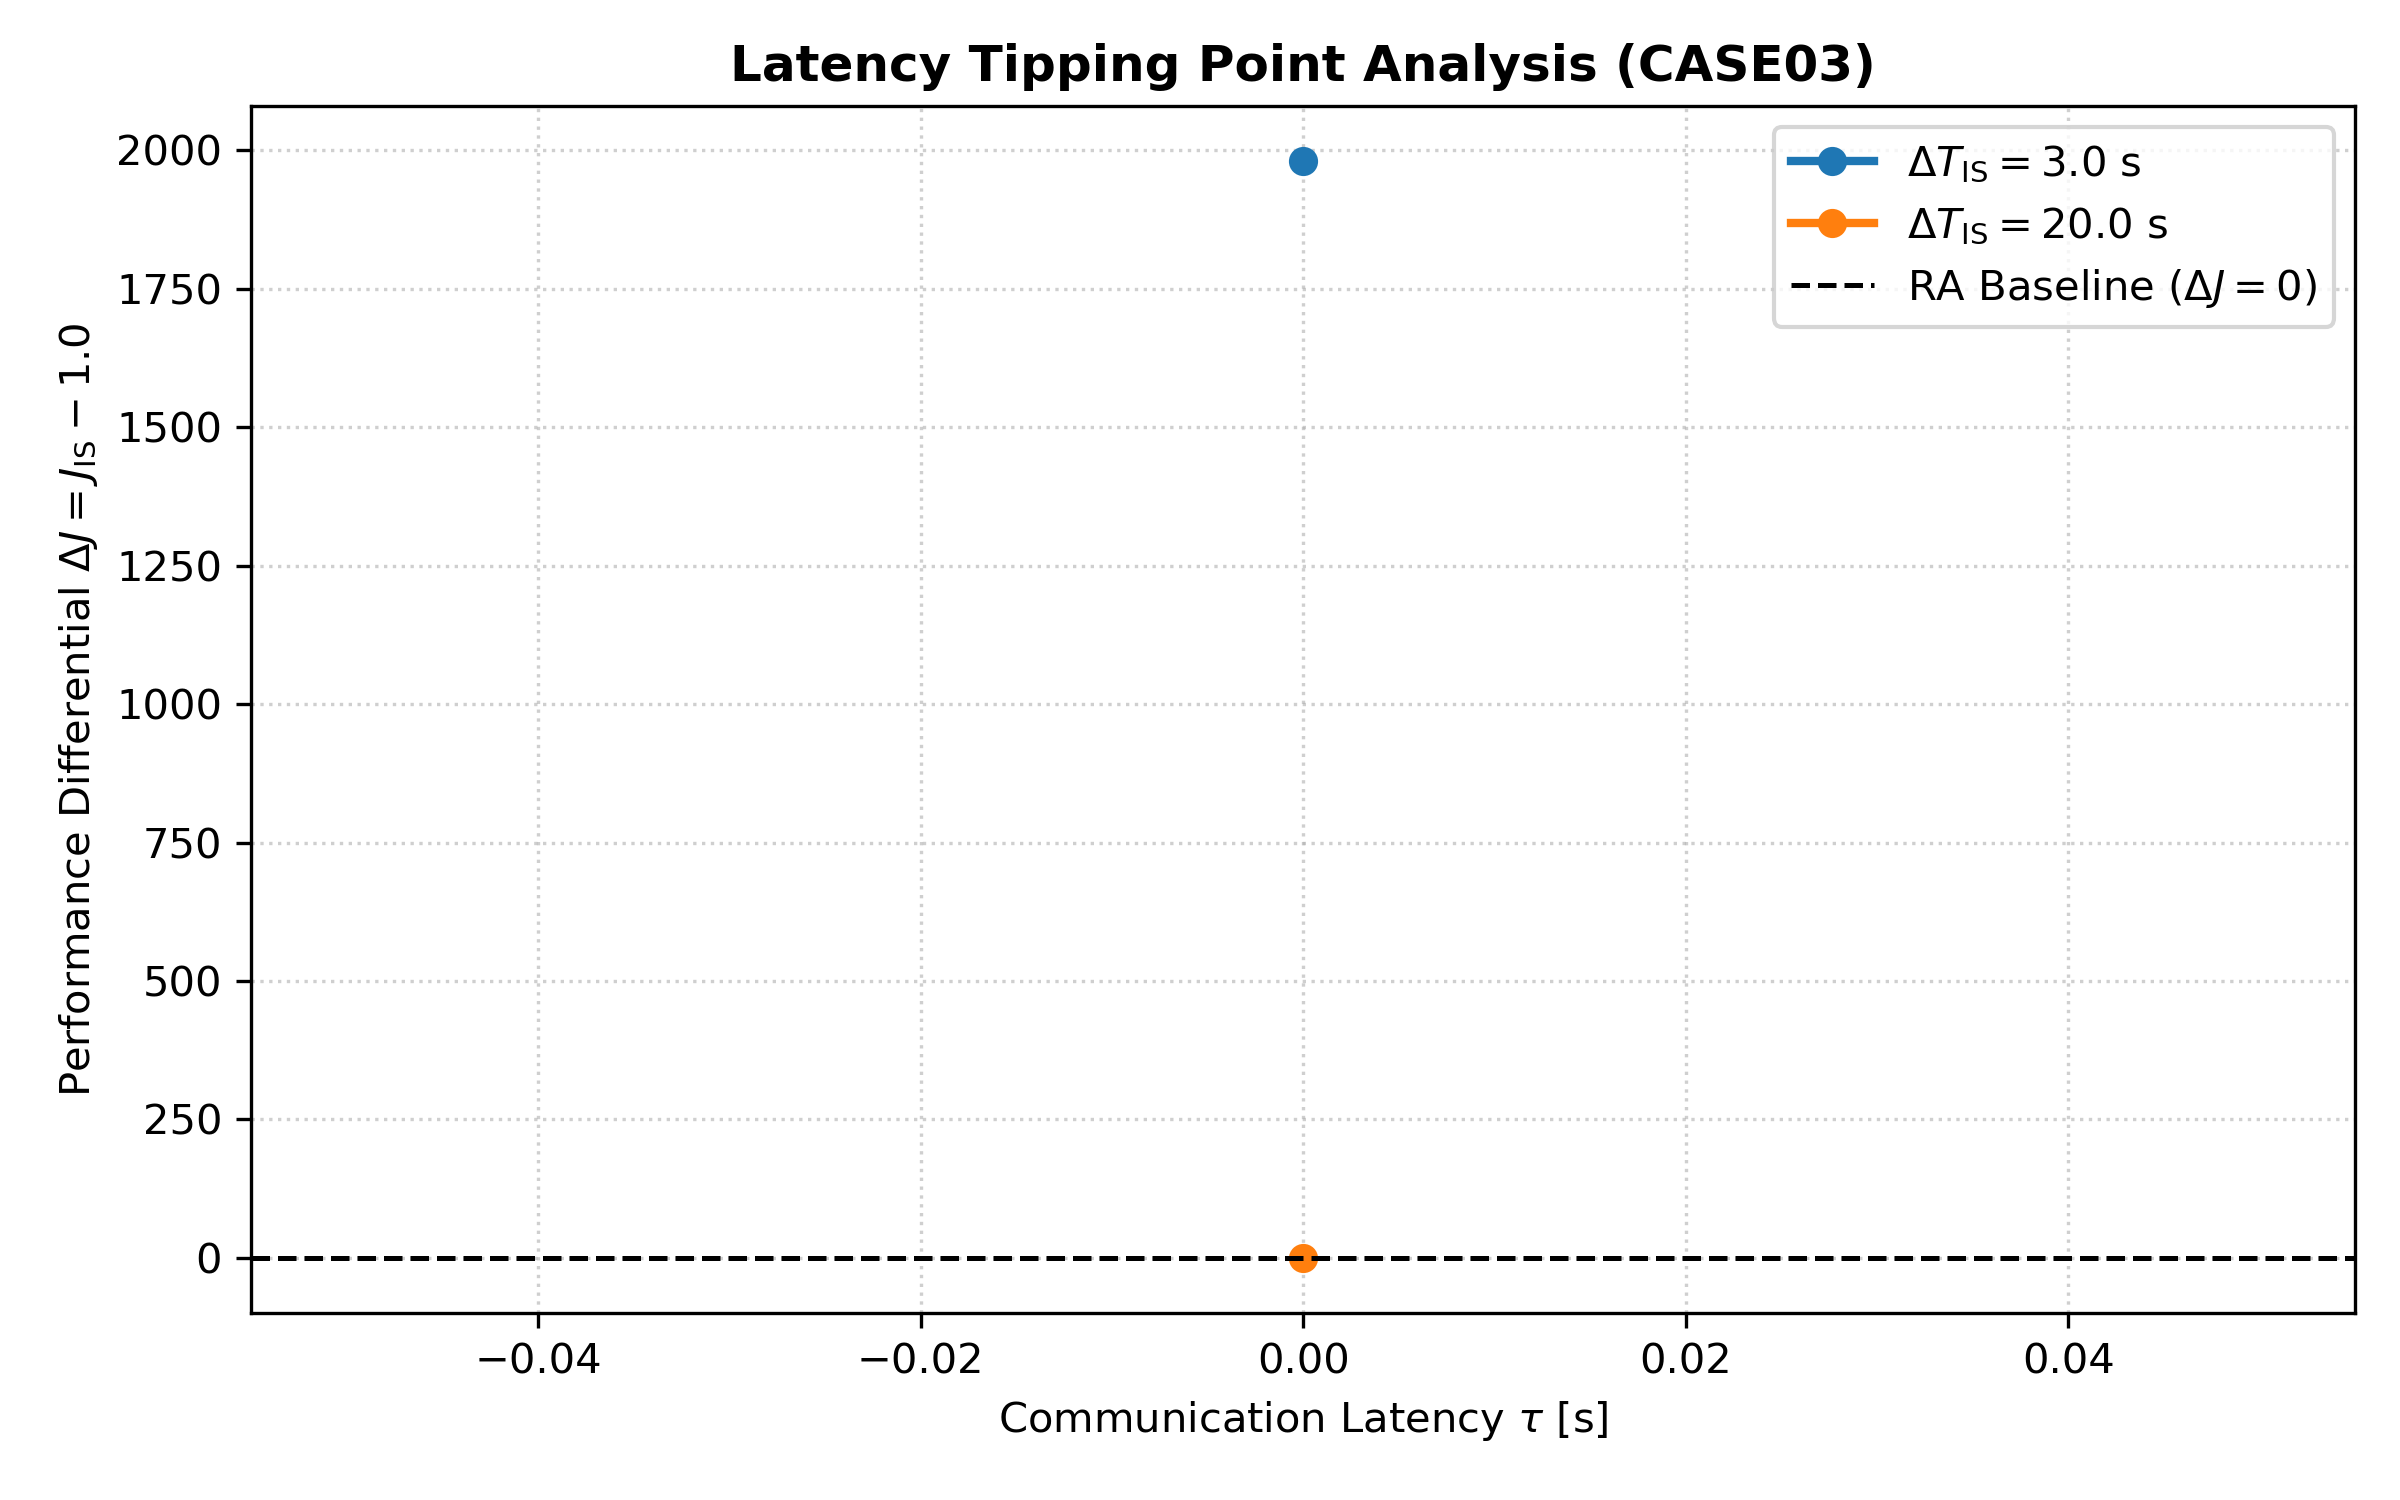
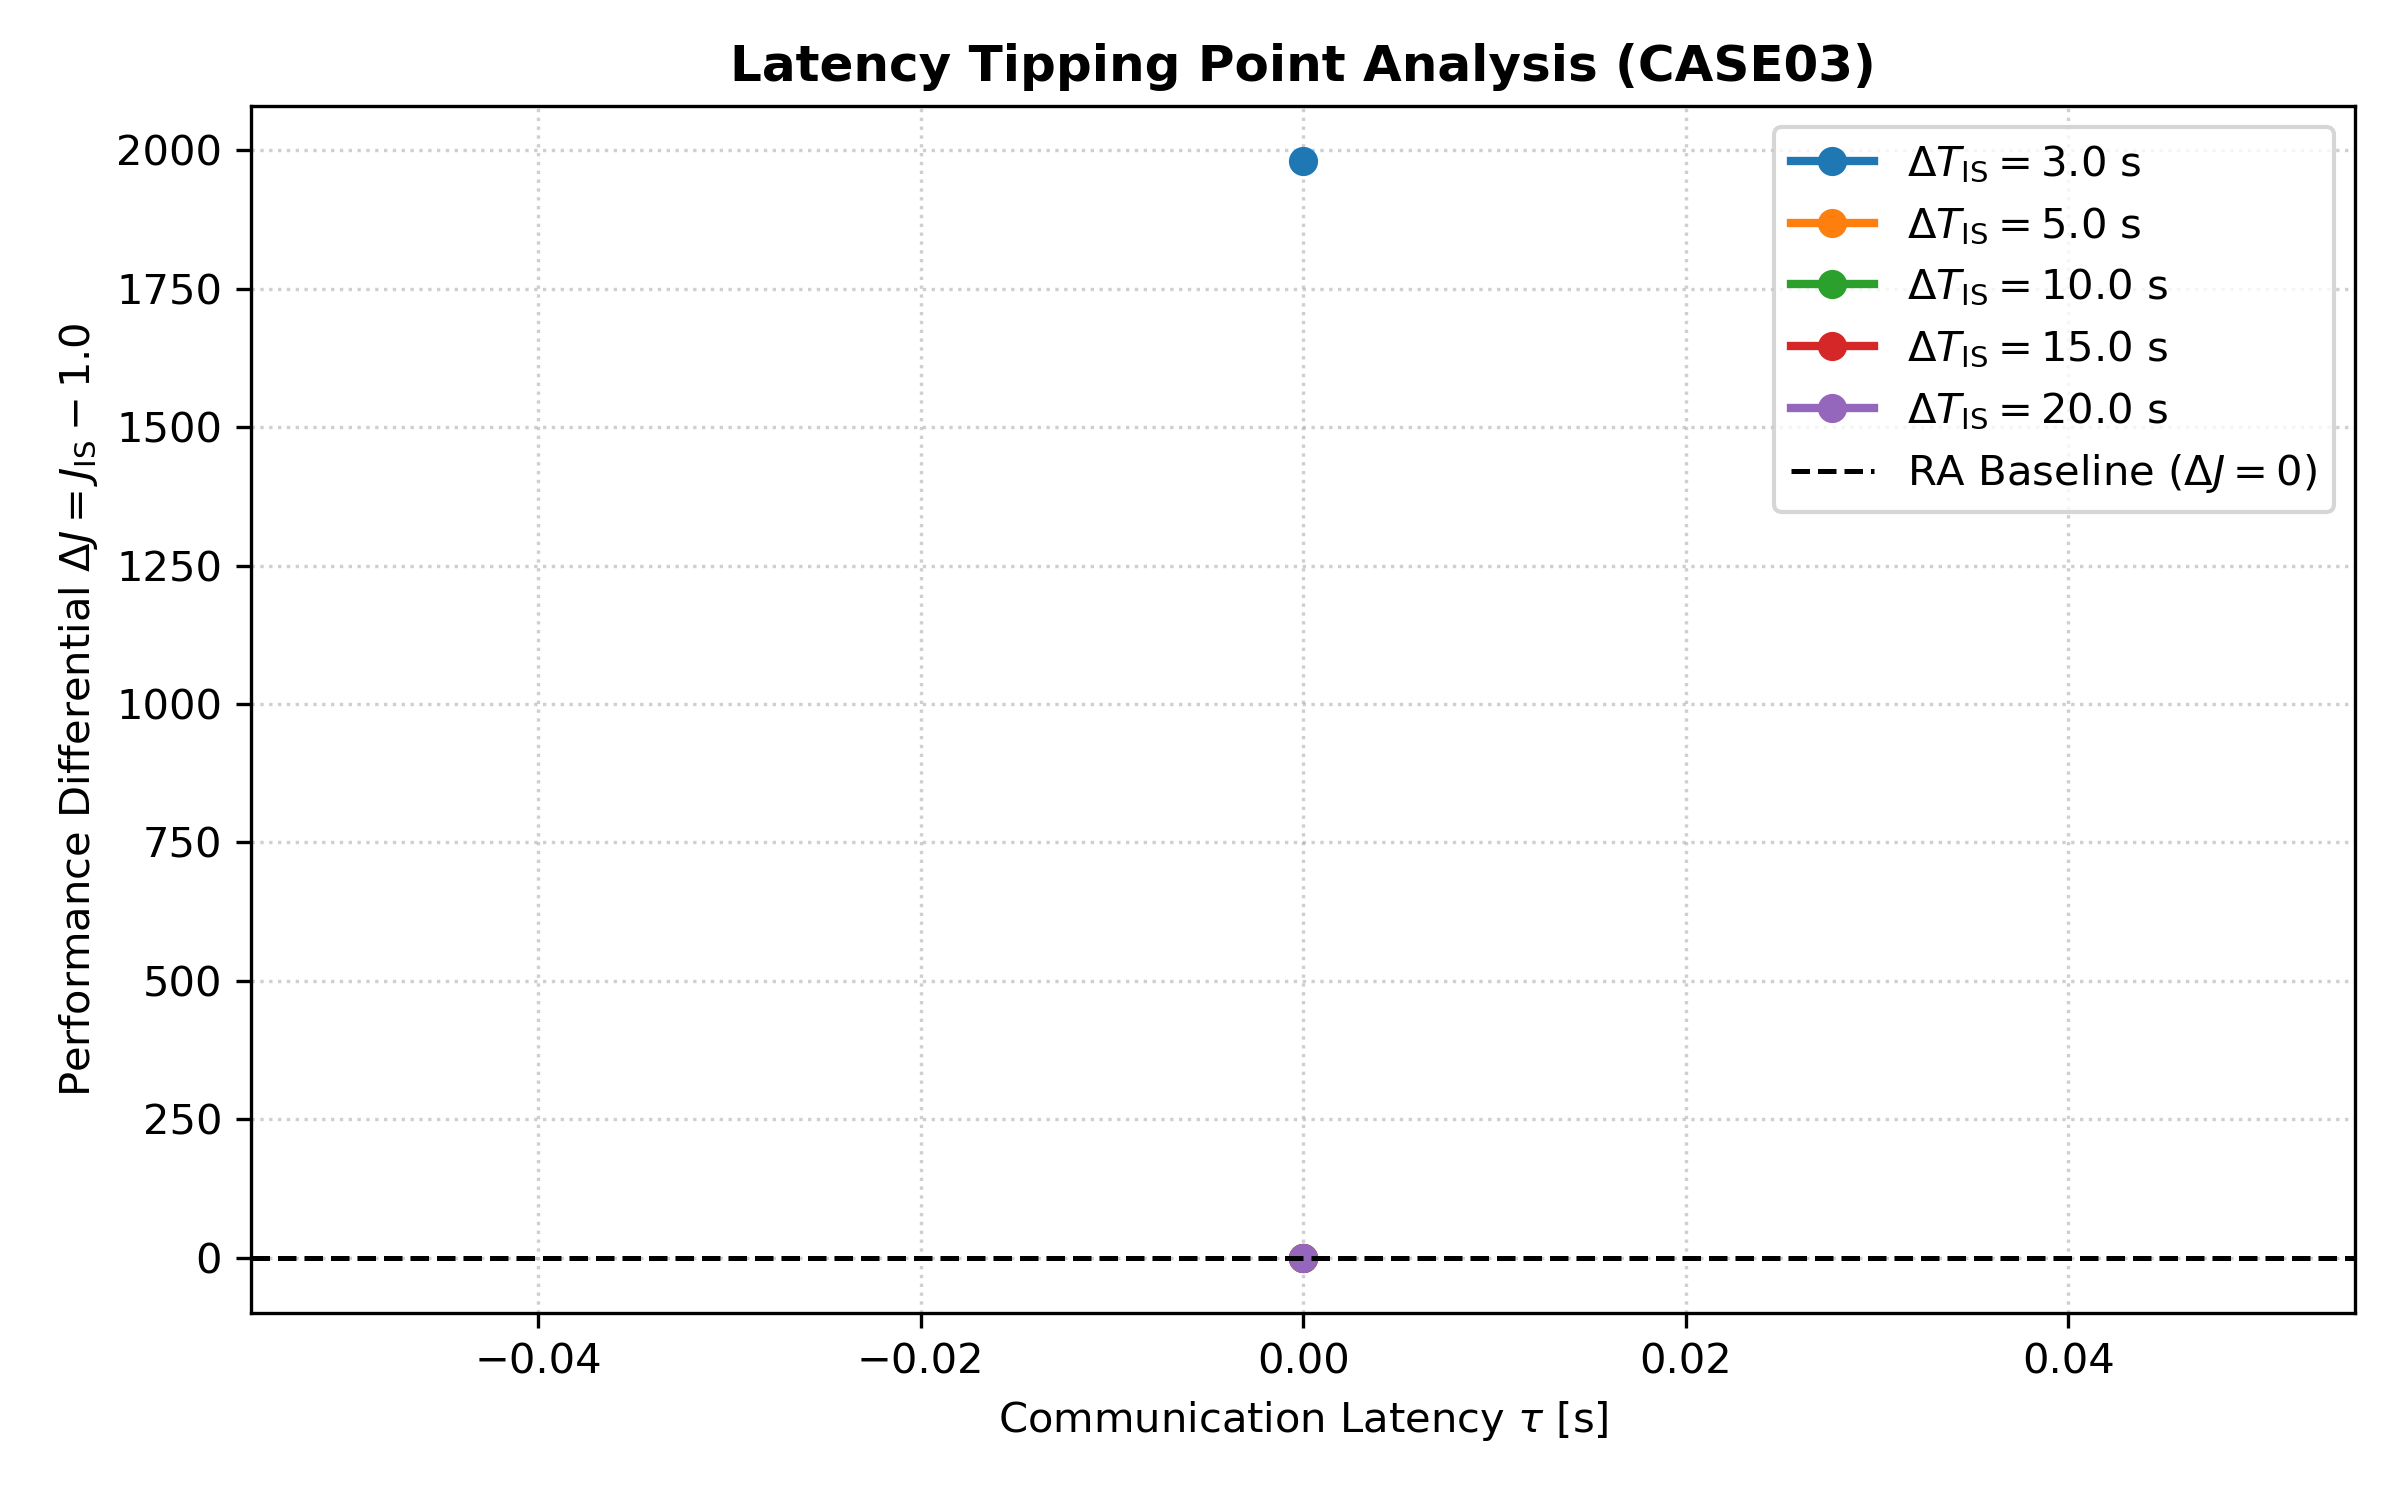
Added intent broadcast range

Changed region(s): [[0.7188, 0.1227, 0.9688, 0.3373], [0.5312, 0.828, 0.5625, 0.8587], [0.0625, 0.552, 0.0938, 0.5827]]

diff --git a/ros2_ws/src/own_ship/own_ship/own_ship_node.py b/ros2_ws/src/own_ship/own_ship/own_ship_node.py
@@ -29,10 +29,12 @@ class OSTransceiverNode(Node):
         self.declare_parameter('scenario', 'case01')
         self.declare_parameter('speed_factor', 1.0)
         self.declare_parameter('auto_close', False)
+        self.declare_parameter('intent_range', 15.0)
 
         scenario_name = self.get_parameter('scenario').value
         self.speed_factor = max(float(self.get_parameter('speed_factor').value), 0.1)
         self.auto_close = bool(self.get_parameter('auto_close').value)
+        self.intent_range = float(self.get_parameter('intent_range').value)
 
         config = load_scenario(scenario_name)
 
@@ -100,12 +102,16 @@ class OSTransceiverNode(Node):
         self.w_active_pub = self.create_publisher(Float64MultiArray, '/os/active_waypoints', 10)
         self.telemetry_pub = self.create_publisher(Float64MultiArray, '/os/telemetry', 10)
 
+        # Publisher for the TS intent that OS has legitimately received in range
+        self.ts_perceived_route_pub = self.create_publisher(RouteIntent, '/os/perceived_ts_route', 10)
+
+        # Static subscription for global AIS kinematics
         self.ts_state_sub = self.create_subscription(
             VesselKinematics, '/ts/state_vector', self.ts_state_callback, 10
         )
-        self.ts_route_sub = self.create_subscription(
-            RouteIntent, '/ts/route_delayed', self.ts_route_callback, 10
-        )
+        
+        # Dynamic subscription for VHF routing intent
+        self.ts_route_sub = None 
 
         dt_timer = self.dt / self.speed_factor
         self.timer = self.create_timer(dt_timer, self.step_gnc_pipeline)
@@ -127,6 +133,9 @@ class OSTransceiverNode(Node):
         if self.t_intent_shared is None:
             self.t_intent_shared = self.sim_time
 
+        # Forward the intent to the plotter only after receiving it legitimately in range
+        self.ts_perceived_route_pub.publish(msg)
+
     def step_gnc_pipeline(self):
         if self.sim_finished:
             return
@@ -140,6 +149,31 @@ class OSTransceiverNode(Node):
 
         # 1. Kinematic Dead-Reckoning of TS between AIS Broadcasts (20 Hz)
         if self.x_ts_est is not None:
+            dist_to_ts = float(np.linalg.norm(self.internal_state[:2] - self.x_ts_est[:2]))
+            
+            # Dynamic Intent Subscription based on Range
+            if dist_to_ts <= self.intent_range:
+                if self.ts_route_sub is None:
+                    self.get_logger().info(
+                        f"\033[93m[OS] TS entered intent comms range ({dist_to_ts:.1f}m <= {self.intent_range}m). Subscribing to Intent.\033[0m"
+                    )
+                    self.ts_route_sub = self.create_subscription(
+                        RouteIntent, '/ts/route_delayed', self.ts_route_callback, 10
+                    )
+            else:
+                if self.ts_route_sub is not None:
+                    self.get_logger().info(
+                        f"\033[91m[OS] TS left intent comms range ({dist_to_ts:.1f}m > {self.intent_range}m). Dropping Intent.\033[0m"
+                    )
+                    self.destroy_subscription(self.ts_route_sub)
+                    self.ts_route_sub = None
+                    self.w_ts_delayed = None
+                    self.t_intent_shared = None
+
+                    # Clear TS route from plotter when leaving comms range
+                    empty_msg = RouteIntent()
+                    self.ts_perceived_route_pub.publish(empty_msg)
+            
             psi_ts = self.x_ts_est[2]
             u_ts = self.x_ts_est[3]
             r_ts = self.x_ts_est[5]

diff --git a/ros2_ws/src/own_ship/launch/run_scenario.launch.py b/ros2_ws/src/own_ship/launch/run_scenario.launch.py
@@ -12,6 +12,7 @@ def generate_launch_description():
     route_interval_arg = DeclareLaunchArgument('route_interval', default_value='3.0')
     speed_factor_arg = DeclareLaunchArgument('speed_factor', default_value='1.0')
     auto_close_arg = DeclareLaunchArgument('auto_close', default_value='False')
+    intent_range_arg = DeclareLaunchArgument('intent_range', default_value='15.0')
 
     return LaunchDescription([
         scenario_arg,
@@ -20,6 +21,7 @@ def generate_launch_description():
         route_interval_arg,
         speed_factor_arg,
         auto_close_arg,
+        intent_range_arg,
         
         # 1. Target Ship Node
         Node(
@@ -55,7 +57,8 @@ def generate_launch_description():
             parameters=[{
                 'scenario': LaunchConfiguration('scenario'),
                 'speed_factor': LaunchConfiguration('speed_factor'),
-                'auto_close': LaunchConfiguration('auto_close')
+                'auto_close': LaunchConfiguration('auto_close'),
+                'intent_range': LaunchConfiguration('intent_range')
             }],
             on_exit=[EmitEvent(event=Shutdown())]
         ),
@@ -70,7 +73,7 @@ def generate_launch_description():
                 'scenario': LaunchConfiguration('scenario'),
                 'mode': LaunchConfiguration('share_intent'),
                 'latency': LaunchConfiguration('tau'),
-                'interval': LaunchConfiguration('route_interval'), # Mapped to plotter's 'interval' parameter
+                'interval': LaunchConfiguration('route_interval'),
                 'auto_close': LaunchConfiguration('auto_close')
             }],
             on_exit=[EmitEvent(event=Shutdown())]

diff --git a/ros2_ws/src/own_ship/own_ship/live_plotter_node.py b/ros2_ws/src/own_ship/own_ship/live_plotter_node.py
@@ -131,7 +131,7 @@ class LivePlotterNode(Node):
         self.create_subscription(Float64MultiArray, "/os/active_waypoints", self.os_wps_callback, 10)
         self.create_subscription(Float64MultiArray, "/os/telemetry", self.telem_callback, 10)
         self.create_subscription(VesselKinematics, "/ts/state_vector", self.ts_callback, 10)
-        self.create_subscription(RouteIntent, "/ts/route_delayed", self.ts_route_callback, 10)
+        self.create_subscription(RouteIntent, "/os/perceived_ts_route", self.ts_route_callback, 10)
 
         self.get_logger().info(f"Live Plotter ready [{self.scenario_name}]")
 

diff --git a/gnc_core/imazu_cases/case03/case03_config.py b/gnc_core/imazu_cases/case03/case03_config.py
@@ -68,8 +68,8 @@ CASE03_CONFIG = {
     },
 
     # Own Ship (OS) Initial Conditions & Route (Northbound through main canal)
-    "os_initial_state": np.array([-20.0, 0.0, 0.0, 0.45, 0.0, 0.0], dtype=np.float64),
-    "os_nominal_speed": 0.45,
+    "os_initial_state": np.array([-20.0, 0.0, 0.0, 0.42, 0.0, 0.0], dtype=np.float64),
+    "os_nominal_speed": 0.42,
     "os_mission_wps": np.array([
         [-20.0, 0.0],
         [25.0, 0.0]
